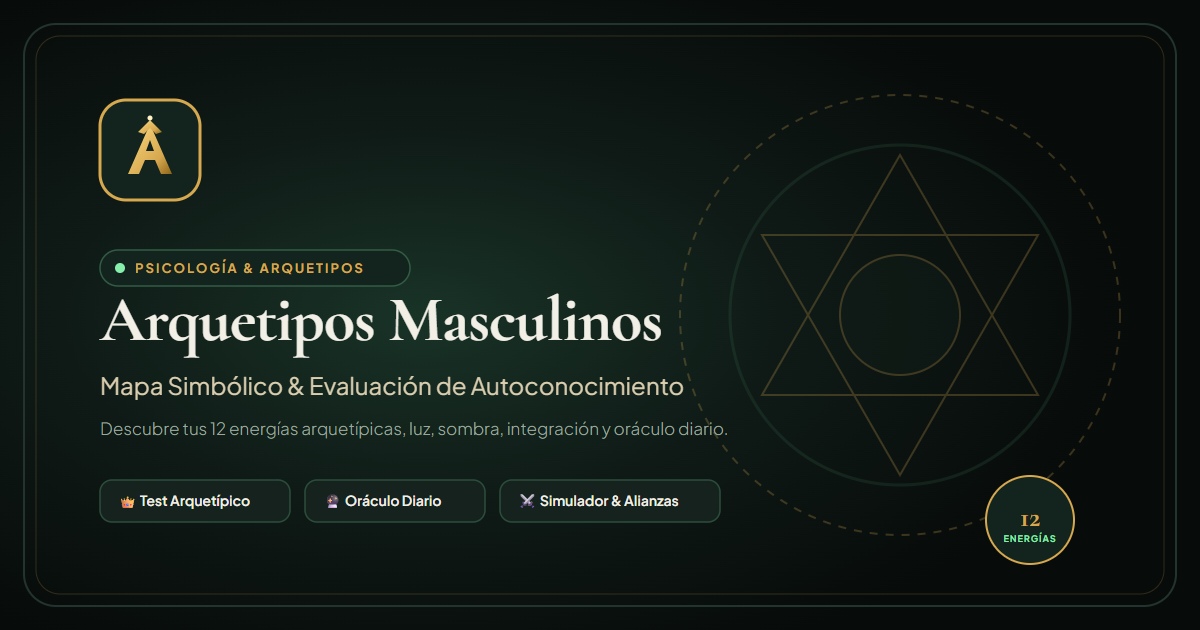
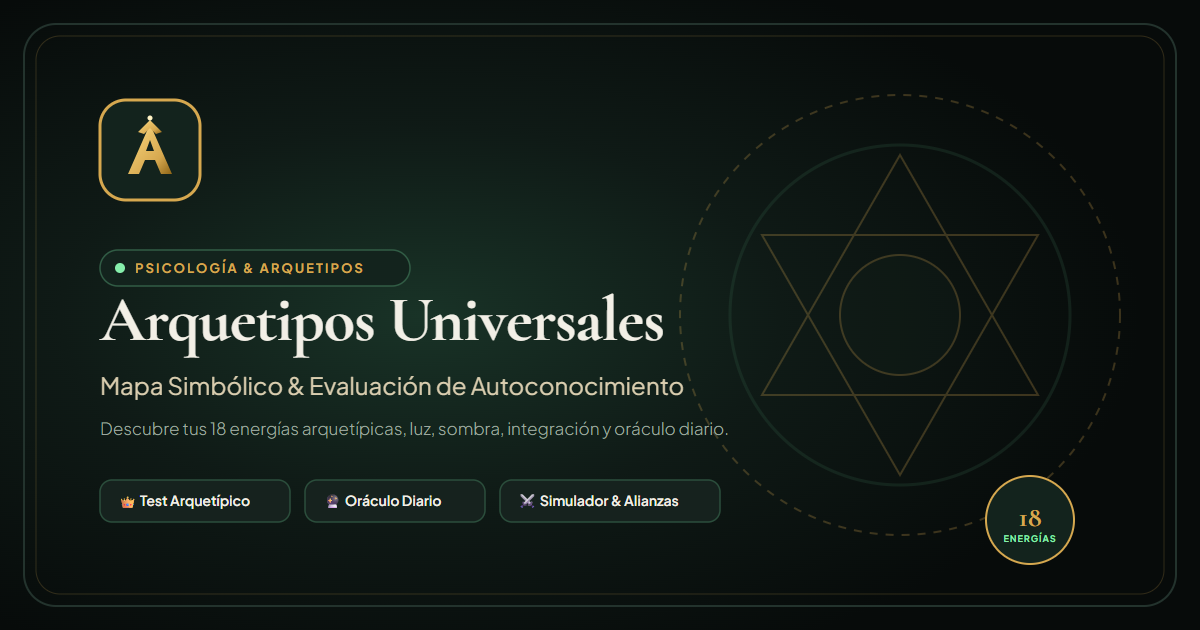
fix: la marca y los textos ya hablan de 18 arquetipos universales
El commit que amplio el dominio a dieciocho arquetipos dejo la capa
visible con la identidad anterior. Se completa la migracion:

- El logotipo de cabecera y barra lateral decia "Arquetipos MASCULINOS"
  en todas las pantallas.
- El manifiesto de la app instalable, que es lo que lee la PWA ya
  instalada y la ficha de Microsoft Store.
- Datos estructurados de la pagina y texto alternativo de Twitter.
- La imagen de previsualizacion social anunciaba "12 ENERGIAS";
  se regenera el PNG desde el SVG corregido.
- Pantalla de resultados y modal de compartir, que decian "12
  Arquetipos" sobre un ranking que ya lista dieciocho.

Solo textos, marca e imagen social: no se toca logica.

Claude-Session: https://claude.ai/code/session_01WHWrxy7FUn3Awuikjq7G9D

Changed region(s): [[0.3083, 0.4524, 0.555, 0.5429], [0.185, 0.6635, 0.6167, 0.6937], [0.8325, 0.8143, 0.8633, 0.8444]]

diff --git a/index.html b/index.html
@@ -45,7 +45,7 @@
     <meta name="twitter:title" content="Arquetipos Universales | Mapa Simbólico y Autoconocimiento" />
     <meta name="twitter:description" content="Descubre tus arquetipos dominantes con versiones masculina y femenina, integra tu sombra y equilibra tus energías con este mapa simbólico interactivo." />
     <meta name="twitter:image" content="https://archetypes-mystical.web.app/og-image.png" />
-    <meta name="twitter:image:alt" content="Arquetipos Masculinos - Plataforma de autoconocimiento" />
+    <meta name="twitter:image:alt" content="Arquetipos Universales - Plataforma de autoconocimiento" />
 
     <!-- Typography Fonts -->
     <link rel="preconnect" href="https://fonts.googleapis.com">
@@ -57,9 +57,9 @@
       {
         "@context": "https://schema.org",
         "@type": "WebApplication",
-        "name": "Arquetipos Masculinos",
-        "alternateName": "Mapa Simbólico de Arquetipos Masculinos",
-        "description": "Plataforma de autoconocimiento y psicología simbólica basada en los 12 arquetipos masculinos.",
+        "name": "Arquetipos Universales",
+        "alternateName": "Mapa Simbólico de Arquetipos Universales",
+        "description": "Plataforma de autoconocimiento y psicología simbólica basada en 18 arquetipos universales, con narrativa masculina, femenina y universal.",
         "applicationCategory": "EducationalApplication, LifestyleApplication",
         "inLanguage": "es",
         "operatingSystem": "All",

diff --git a/src/components/result/ShareResultImageModal.tsx b/src/components/result/ShareResultImageModal.tsx
@@ -168,7 +168,7 @@ export const ShareResultImageModal: React.FC<ShareResultImageModalProps> = ({
         await navigator.share({
           files: [file],
           title: `Mi Mapa Arquetípico: ${compositeProfile.title}`,
-          text: `Descubrí mi arquetipo dominante: ${dominant.name} (${result.dominantArchetype.normalizedScore}%). Conócete con Los 12 Arquetipos.`,
+          text: `Descubrí mi arquetipo dominante: ${dominant.name} (${result.dominantArchetype.normalizedScore}%). Conócete con Los 18 Arquetipos.`,
         });
         setShareSuccess(true);
         setTimeout(() => setShareSuccess(false), 3000);
@@ -429,7 +429,7 @@ export const ShareResultImageModal: React.FC<ShareResultImageModalProps> = ({
                 <div className="inline-flex items-center gap-1.5 px-2.5 py-0.5 rounded-full border text-[9px] uppercase tracking-widest font-bold shadow-sm"
                      style={{ borderColor: `${themeStyles.accentColor}50`, color: themeStyles.accentColor }}>
                   <Sparkles className="w-2.5 h-2.5" />
-                  <span>Los 12 Arquetipos · Mapa Simbólico</span>
+                  <span>Los 18 Arquetipos · Mapa Simbólico</span>
                 </div>
 
                 {userName && (

diff --git a/src/components/result/ResultView.tsx b/src/components/result/ResultView.tsx
@@ -141,7 +141,7 @@ export const ResultView: React.FC<ResultViewProps> = ({
         <div className="lg:col-span-7 p-6 rounded-2xl bg-[#121A17] border border-[#1E2A25] flex flex-col justify-between space-y-4">
           <div className="flex items-center justify-between">
             <h3 className="font-serif text-lg font-bold text-[#F2EFE6]">
-              Geometría de tus 12 Arquetipos
+              Geometría de tus Arquetipos
             </h3>
             <span className="text-[11px] text-[#9DA79F]">0 a 100% normalizado</span>
           </div>
@@ -229,7 +229,7 @@ export const ResultView: React.FC<ResultViewProps> = ({
         <div className="flex items-center justify-between">
           <div>
             <h3 className="font-serif text-2xl font-bold text-[#F2EFE6]">
-              Ranking Completo de los 12 Arquetipos
+              Ranking Completo de los 18 Arquetipos
             </h3>
             <p className="text-xs text-[#9DA79F]">
               Haz clic en cualquier arquetipo para explorar su simbolismo y ejercicios

diff --git a/vite.config.ts b/vite.config.ts
@@ -56,10 +56,10 @@ export default defineConfig(({ mode }) => {
         registerType: 'autoUpdate',
         includeAssets: ['favicon.svg', 'apple-touch-icon.png', 'og-image.png'],
         manifest: {
-          name: 'Arquetipos Masculinos',
+          name: 'Arquetipos Universales',
           short_name: 'Arquetipos',
           description:
-            'Mapa simbólico de los 12 arquetipos masculinos: test, oráculo diario, diario de reflexión y retos de desarrollo.',
+            'Mapa simbólico de los 18 arquetipos universales, con narrativa masculina, femenina y universal: test, oráculo diario, diario de reflexión y retos de desarrollo.',
           lang: 'es',
           dir: 'ltr',
           start_url: '/',

diff --git a/src/components/common/BrandLogo.tsx b/src/components/common/BrandLogo.tsx
@@ -79,7 +79,7 @@ export const BrandLogo: React.FC<BrandLogoProps> = ({
           <span
             className={`text-[#9DA79F] tracking-widest uppercase font-semibold mt-0.5 ${subSizes}`}
           >
-            Masculinos
+            Universales
           </span>
         </div>
       )}
